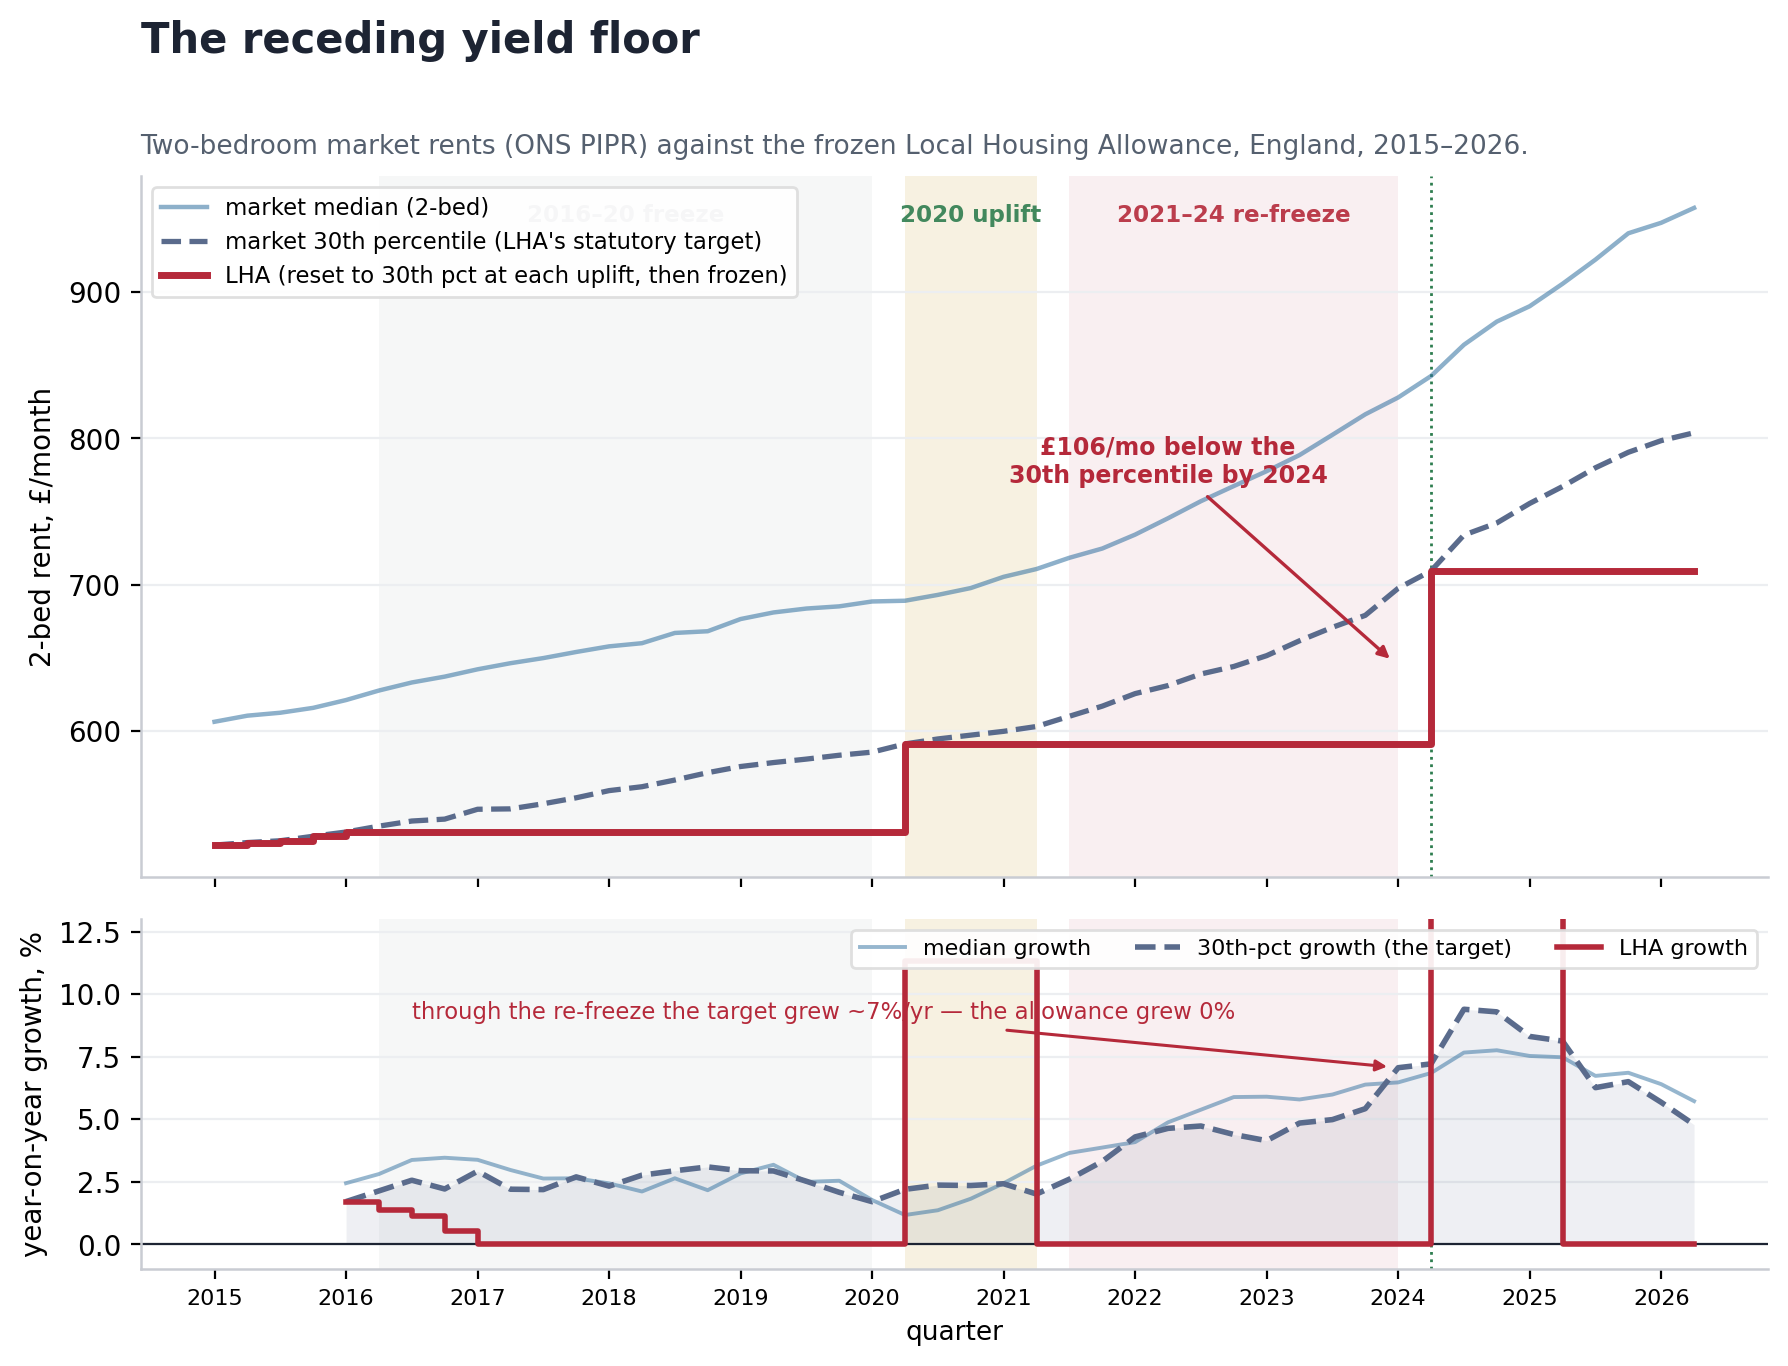
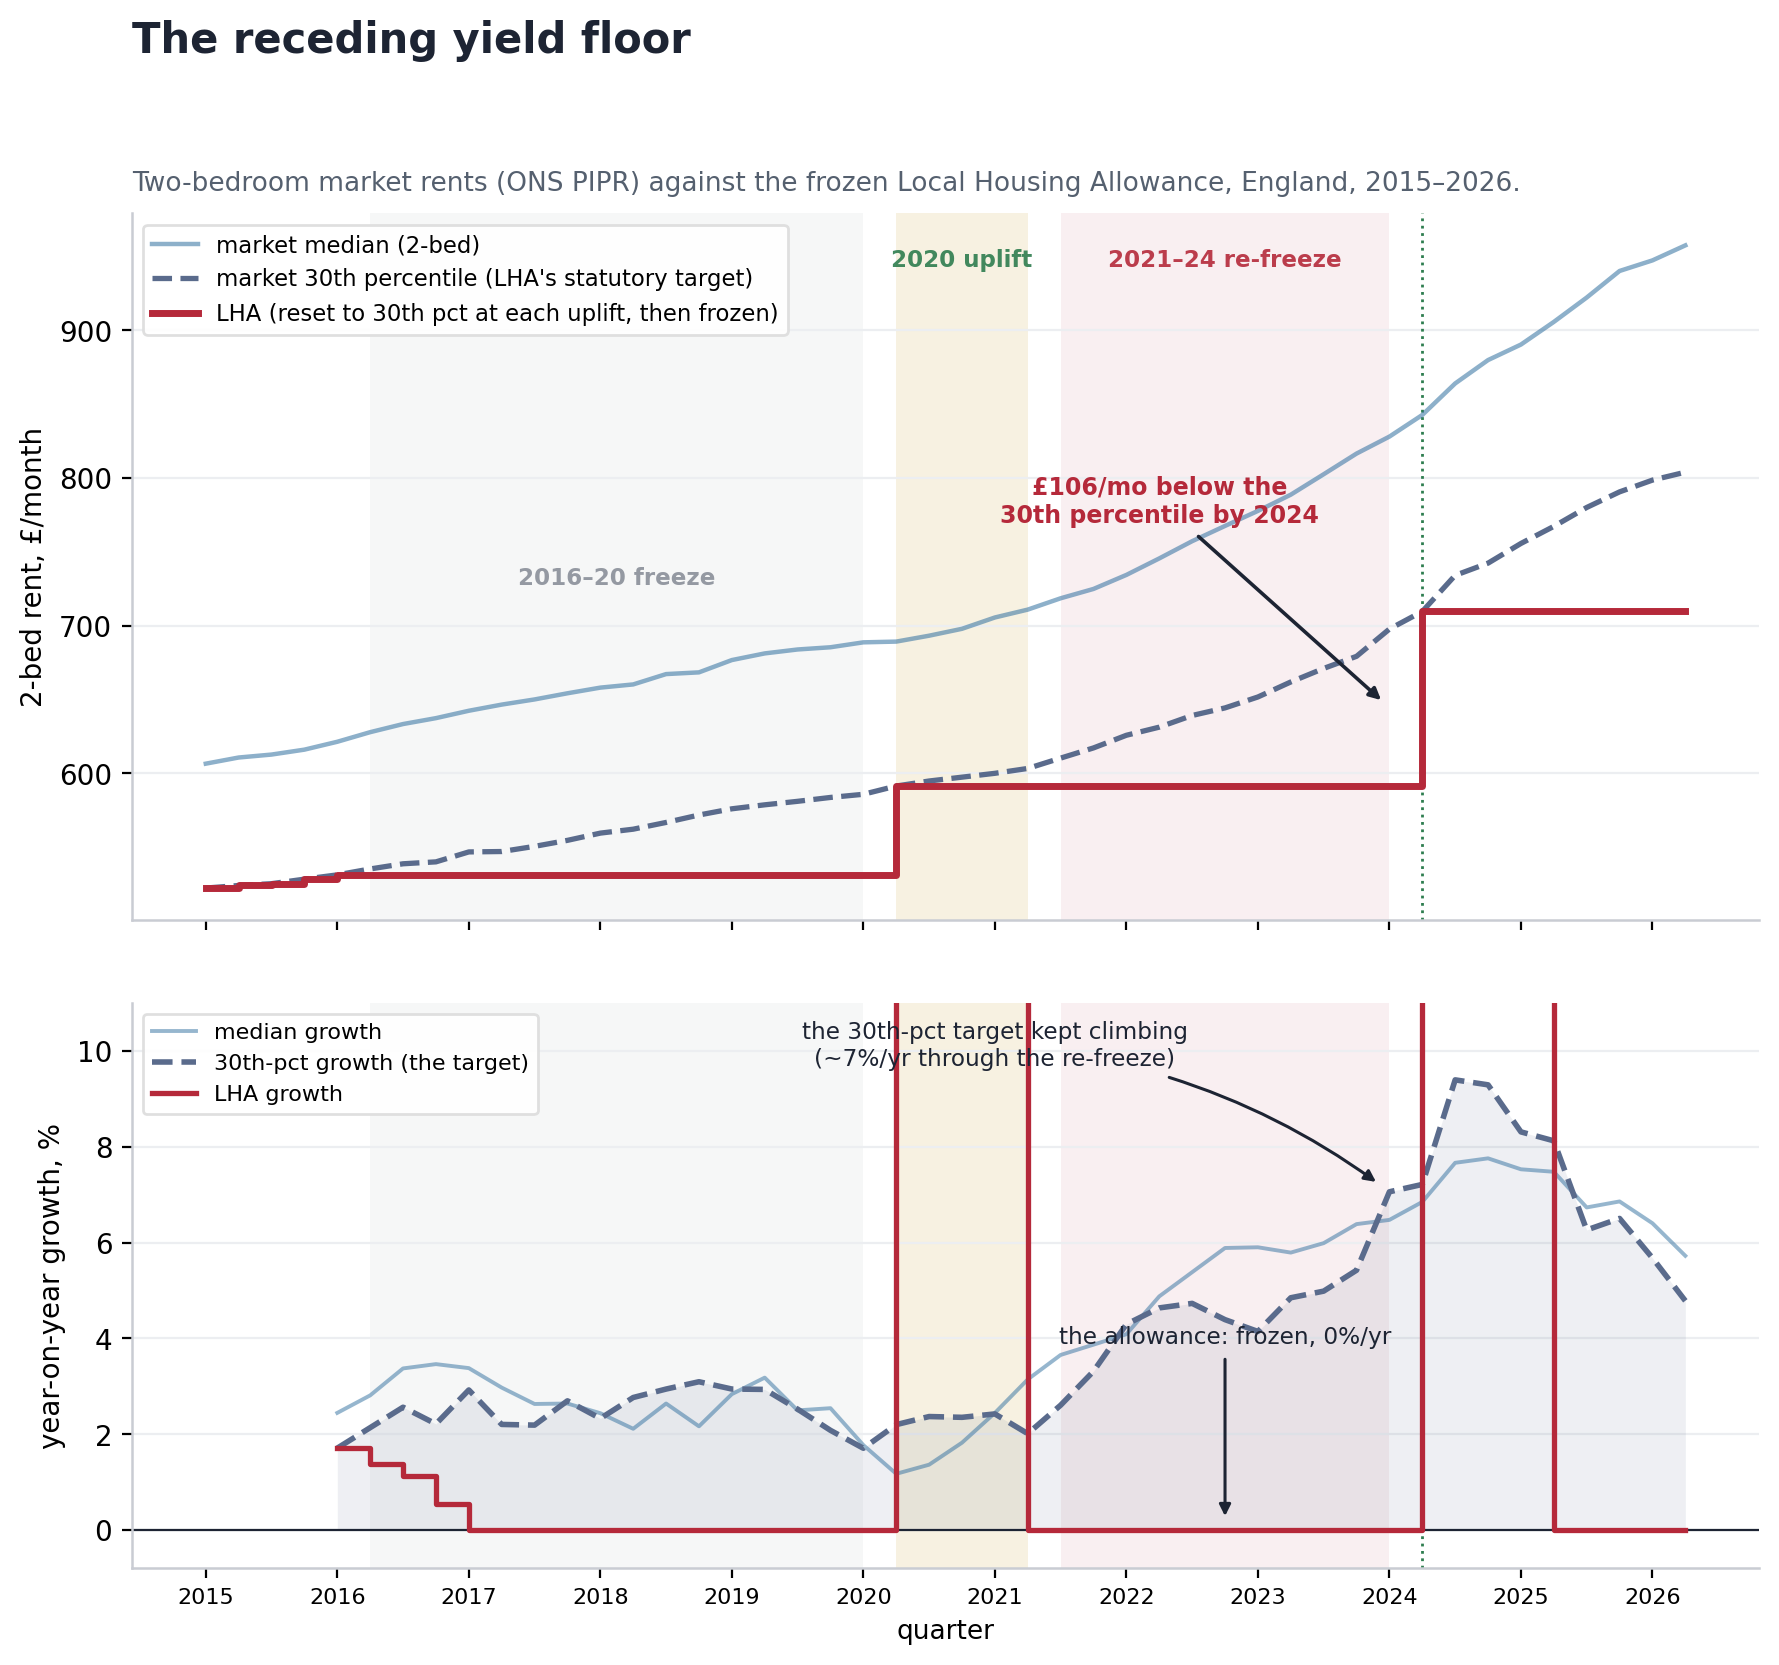
Update NEF package site

diff --git a/pages/general/cover-letter-one-page.html b/pages/general/cover-letter-one-page.html
@@ -370,6 +370,13 @@ ul.task-list li input[type="checkbox"] {
 
 <p><em>Carlos Galindo Escajeda · Social Policy Economist / Quantitative Researcher application · 1 June 2026</em></p>
 <p><strong>One-line fit.</strong> A microsimulation-and-poverty-measurement economist by training, with a decade of macro-finance quantitative practice in between, returning to distributional policy work and ready to bring a verified UK-PRS difference-in-differences design — across 290 English local authorities, 2019–2024 — to NEF’s fair-rents programme from day one.</p>
+<p>Before anything else, the <a href="cover-letter-master.html">Cover Letter in Full Glory</a> and the <a href="manifesto.html">Manifesto</a> make the case in prose. Here it is at a glance:</p>
+<figure style="margin:0.8rem 0 1.2rem;" class="figure">
+<a href="programme-map.html"><img src="../../papers/programme_map.svg" alt="The case for a rent brake, in one diagram: why the usual objection fails, the welfare argument and the evidence, the policy, and the one question still open." style="width:100%;max-width:840px;display:block;margin:0 auto;border:1px solid #e9ecef;border-radius:10px;" class="figure-img"></a>
+<figcaption style="text-align:center;font-size:0.92em;margin-top:0.4rem;">
+<a href="programme-map.html"><strong>The whole case on one screen</strong> — open the interactive map →</a>
+</figcaption>
+</figure>
 <section id="where-to-start" class="level2">
 <h2 class="anchored" data-anchor-id="where-to-start">Where to start</h2>
 <div class="where-to-start">
@@ -379,7 +386,6 @@ ul.task-list li input[type="checkbox"] {
 </ul>
 <p><strong>The research — fast to deep</strong></p>
 <ul>
-<li><a href="programme-map.html">The Programme in One Diagram</a> — the whole case as one clickable map: five papers converging on a single policy lever, colour-coded by how settled each claim is. The fastest way to see the shape before you read a word of it.</li>
 <li><a href="../explainers/lha-explainer-blog.html">Fiscal Capture explainer</a> (<a href="../working-papers/fiscal-capture.html">paper</a>) · <a href="../explainers/btl-explainer-blog.html">Rent-Control Veto explainer</a> (<a href="../working-papers/breaking-the-benchmark.html">paper</a>) — the two papers that matter most to this application: the evidence, then the policy case.</li>
 <li><a href="abstracts-dossier.html">Research Portfolio</a> — all five works in one place: the claim, what is inside, and links to both the explainer and the full paper.</li>
 <li><a href="manifesto.html">Manifesto</a> — why the work exists.</li>

diff --git a/pages/general/abstracts-dossier.html b/pages/general/abstracts-dossier.html
@@ -373,7 +373,12 @@ ul.task-list li input[type="checkbox"] {
 
 <p>Five papers, one connected argument about UK housing, rent regulation, and the welfare of working households. Each entry gives the claim in plain English, what it contributes to the policy case, and what is technically inside — with links to both the short explainer and the full paper.</p>
 <p>Research to change the world — <a href="manifesto.html">Manifesto</a>.</p>
-<p>See the shape first — <a href="programme-map.html">The Programme in One Diagram</a>: five papers, one policy lever, in a single clickable map.</p>
+<figure style="margin:0.9rem 0 1.2rem;" class="figure">
+<a href="programme-map.html"><img src="../../papers/programme_map.svg" alt="The case for a rent brake, in one diagram: why the usual objection fails, the welfare argument and the evidence, the policy, and the one question still open." style="width:100%;max-width:840px;display:block;margin:0 auto;border:1px solid #e9ecef;border-radius:10px;" class="figure-img"></a>
+<figcaption style="text-align:center;font-size:0.92em;margin-top:0.4rem;">
+<a href="programme-map.html"><strong>The whole case on one screen</strong> — open the interactive map →</a>
+</figcaption>
+</figure>
 <p>Suggested path: read top to bottom — the evidence, the policy case, the welfare rationale, the foundation, and the appraisal.</p>
 <hr>
 <section id="fiscal-capture-empirical-anchor" class="level2">

diff --git a/index.html b/index.html
@@ -358,6 +358,13 @@ ul.task-list li input[type="checkbox"] {
 
 
 <p>Five connected papers on UK rent regulation, housing benefit capture, and distributional welfare — with cover letter and CV for the NEF Social Policy Economist role.</p>
+<p><strong>Start with the <a href="./pages/general/cover-letter-master.html">Cover Letter in Full Glory</a> and the <a href="./pages/general/manifesto.html">Manifesto</a>.</strong> The whole case at a glance:</p>
+<figure style="margin:0.8rem 0 1.2rem;" class="figure">
+<a href="pages/general/programme-map.html"><img src="papers/programme_map.svg" alt="The case for a rent brake, in one diagram: why the usual objection fails, the welfare argument and the evidence, the policy, and the one question still open." style="width:100%;max-width:860px;display:block;margin:0 auto;border:1px solid #e9ecef;border-radius:10px;" class="figure-img"></a>
+<figcaption style="text-align:center;font-size:0.92em;margin-top:0.4rem;">
+<a href="pages/general/programme-map.html"><strong>The whole case on one screen</strong> — open the interactive map →</a>
+</figcaption>
+</figure>
 <section id="start-here" class="level2">
 <h2 class="anchored" data-anchor-id="start-here">Start Here</h2>
 <ul>
